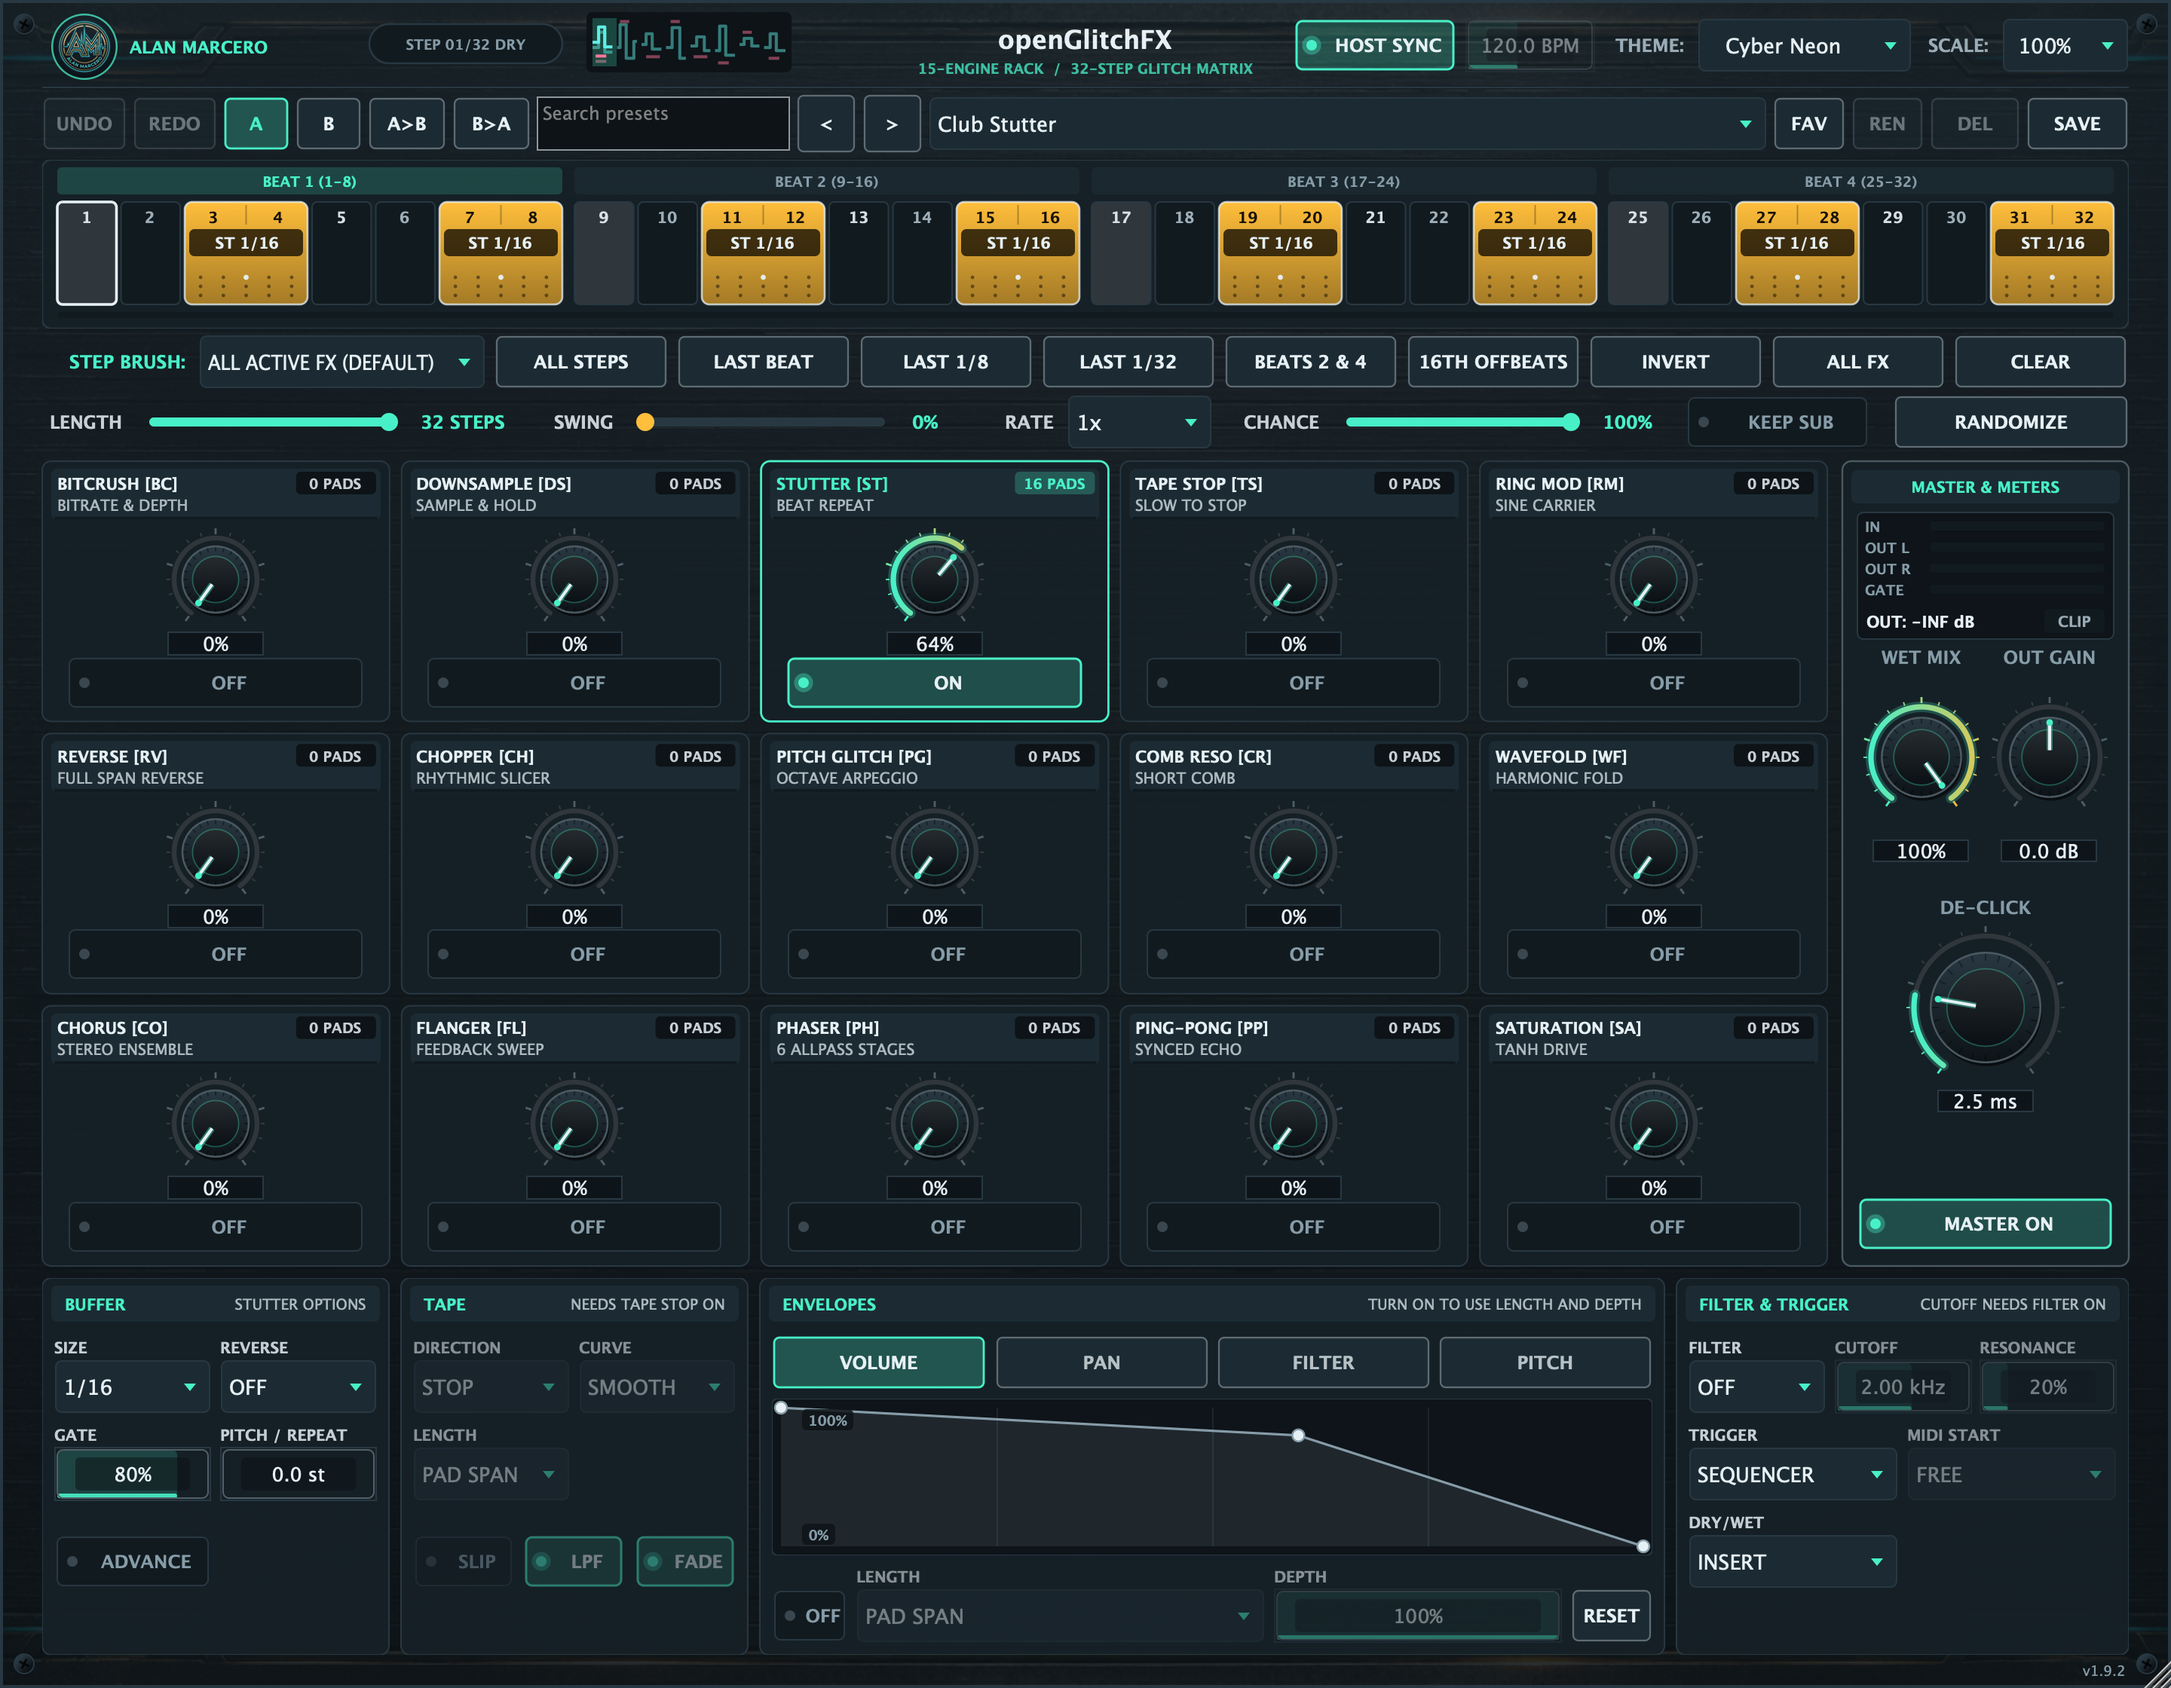
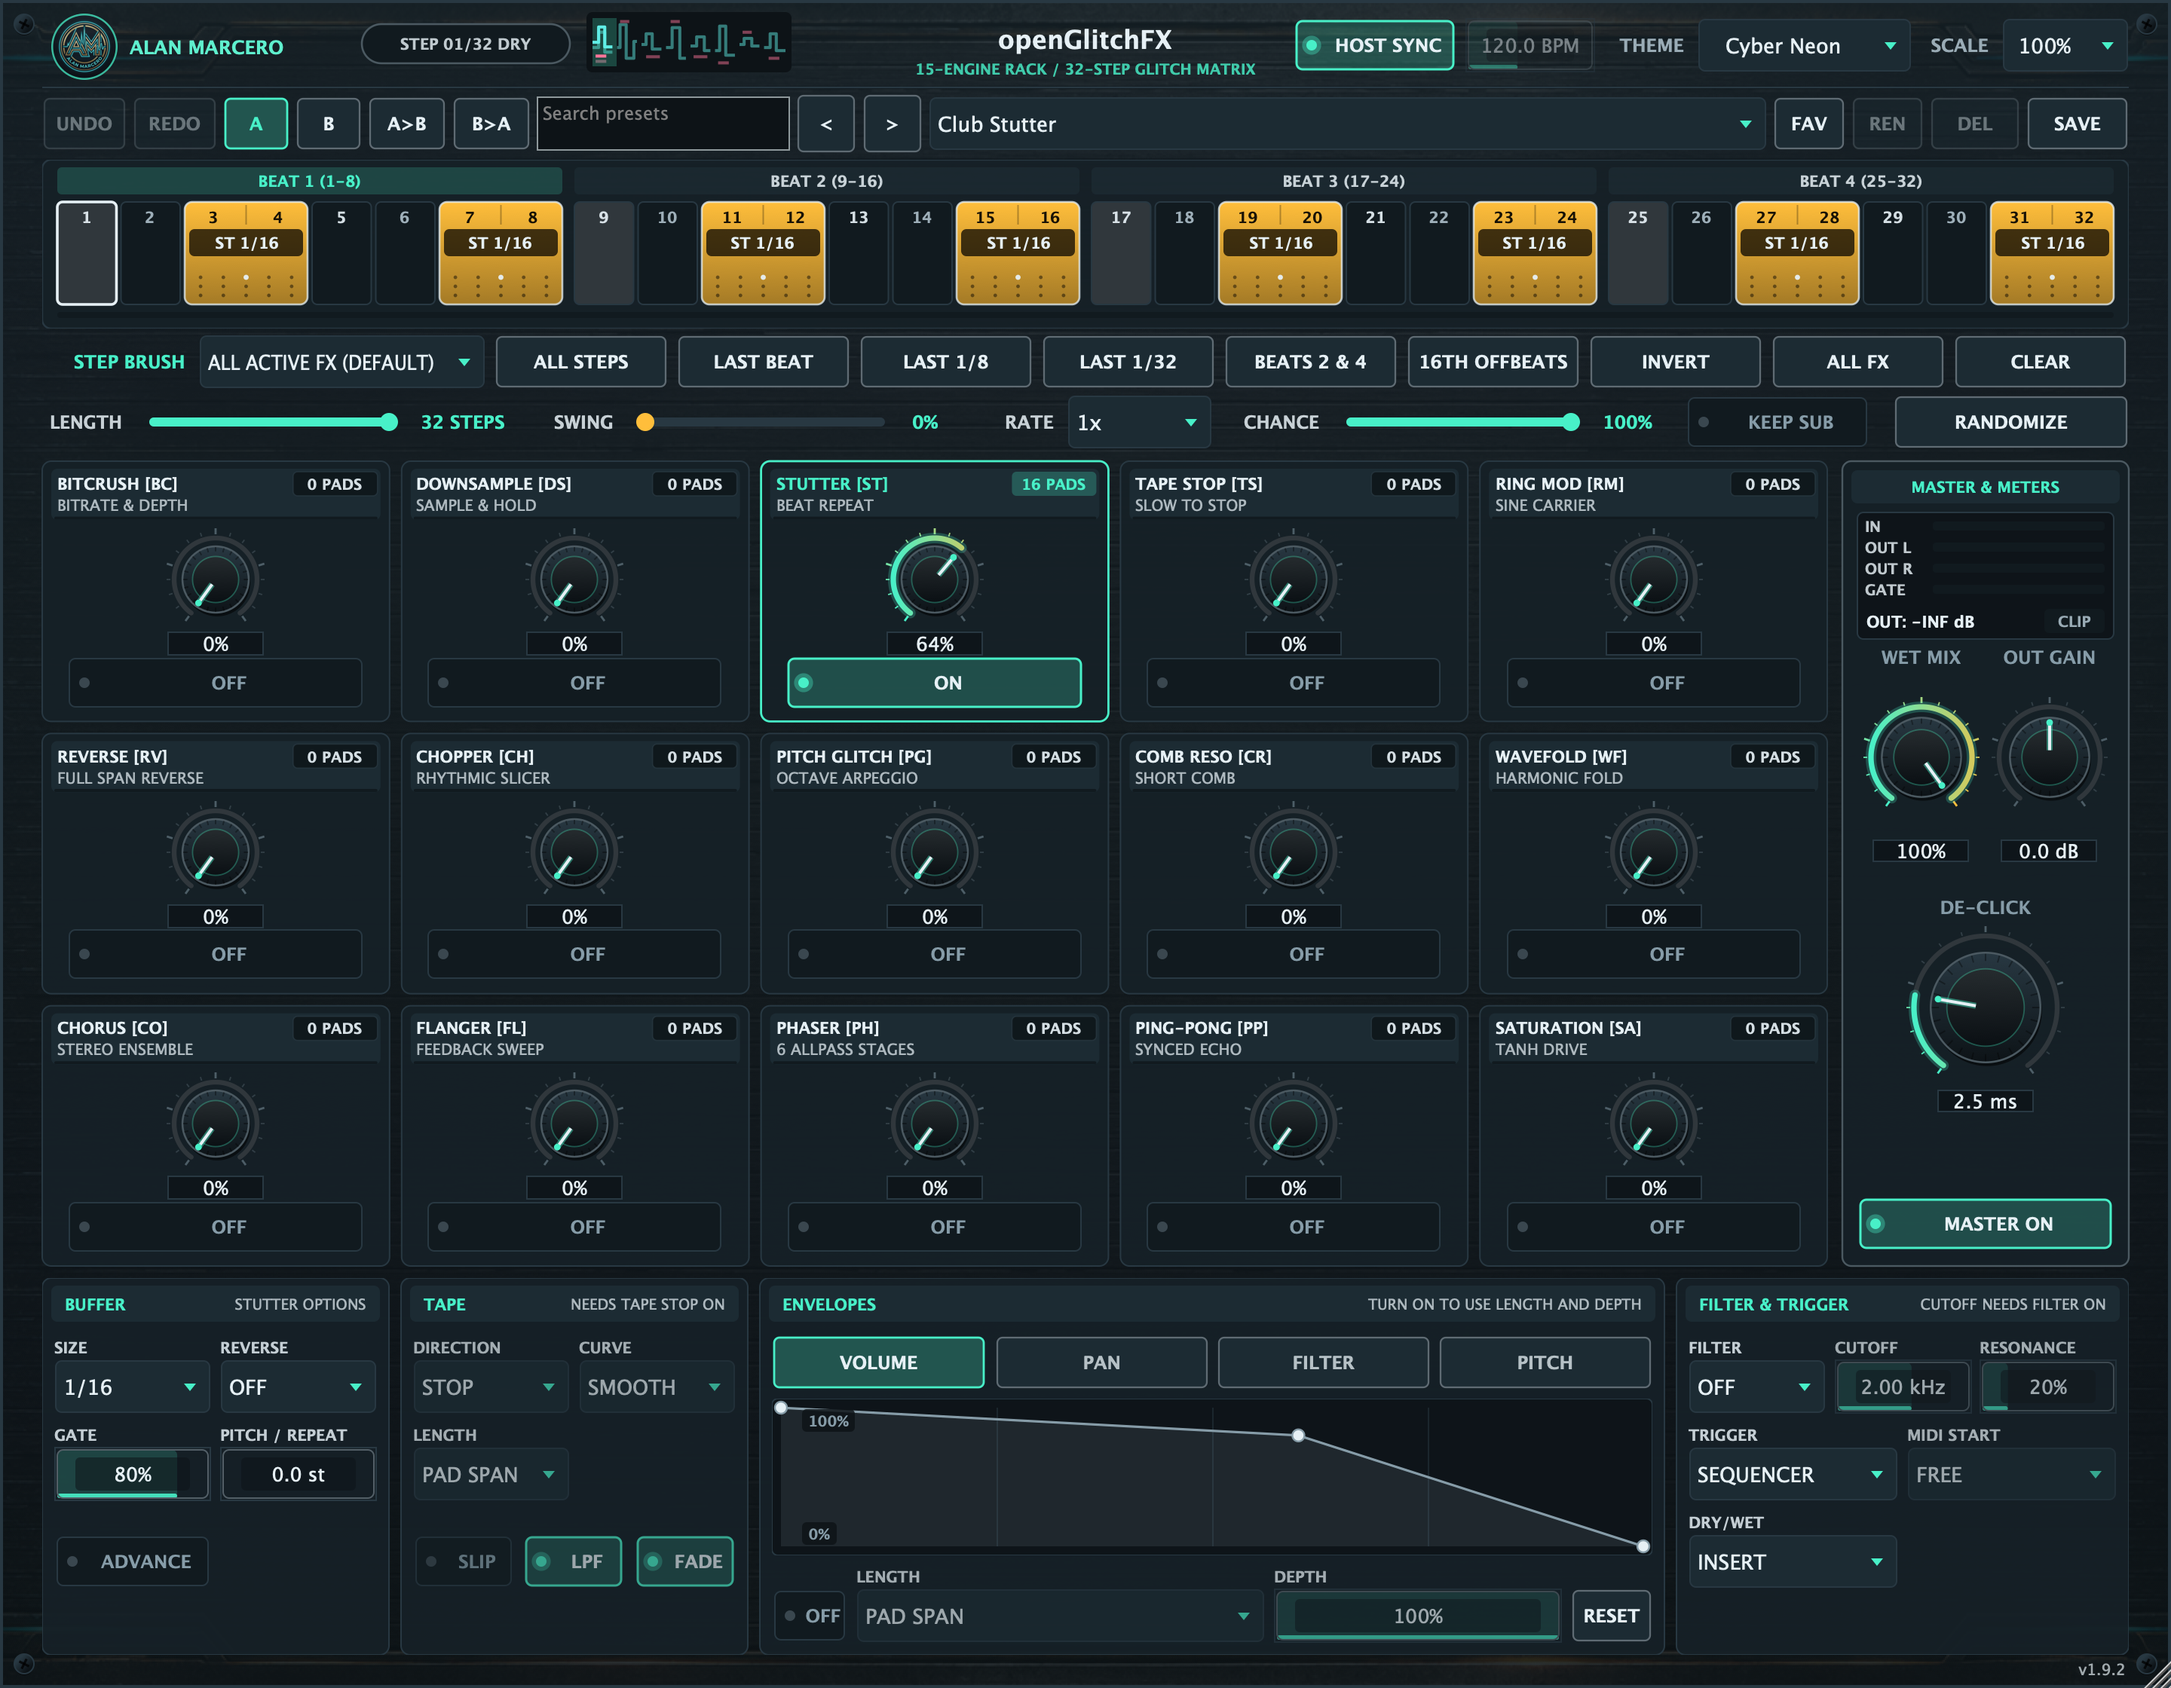
Polish openGlitchFX UI (Pass 4 audit)

diff --git a/Source/Plugin/PluginEditor.cpp b/Source/Plugin/PluginEditor.cpp
@@ -562,9 +562,9 @@ void EditorContent::paint(juce::Graphics& g) {
         g.drawEllipse(logoRect.reduced(0.5f), 1.5f);
     }
 
-    g.setColour(pal.accentPrimary);
-    g.setFont(juce::FontOptions(13.0f, juce::Font::bold));
-    g.drawText("ALAN MARCERO", 86, 22, 160, 18, juce::Justification::centredLeft);
+    g.setColour(pal.accentPrimary.interpolatedWith(pal.textBright, 0.15f));
+    g.setFont(juce::FontOptions(14.5f, juce::Font::bold));
+    g.drawText("ALAN MARCERO", 86, 21, 148, 20, juce::Justification::centredLeft);
 
     if (sliceRegister_ != nullptr) {
         const juce::Rectangle<float> trace(393.0f, 12.0f, 128.0f, 32.0f);
@@ -586,21 +586,21 @@ void EditorContent::paint(juce::Graphics& g) {
     g.setColour(pal.textBright);
     g.setFont(juce::FontOptions(20.0f, juce::Font::bold));
     g.drawText("openGlitchFX", static_cast<int>(w * 0.5f - 160.0f), 15, 320, 22, juce::Justification::centred);
-    g.setFont(juce::FontOptions(11.0f, juce::Font::bold));
-    g.setColour(pal.accentPrimary.withAlpha(0.75f));
-    g.drawText("15-ENGINE RACK  /  32-STEP GLITCH MATRIX", static_cast<int>(w * 0.5f - 160.0f), 38, 320, 14, juce::Justification::centred);
+    g.setFont(juce::FontOptions(11.5f, juce::Font::bold));
+    g.setColour(pal.accentPrimary.withAlpha(0.82f));
+    g.drawText("15-ENGINE RACK / 32-STEP GLITCH MATRIX", static_cast<int>(w * 0.5f - 160.0f), 38, 320, 15, juce::Justification::centred);
 
     // Live Gate Status Pill Indicator in Header
     const auto tel = processor_.getTelemetry();
     const bool gateOpen = tel.activeGate > 0.25f;
     const bool midiMode = sequencerGrid_.isMidiTriggerMode();
-    juce::Rectangle<float> statusPill(245.0f, 16.0f, 128.0f, 26.0f);
+    juce::Rectangle<float> statusPill(240.0f, 16.0f, 138.0f, 26.0f);
     g.setColour(gateOpen ? pal.accentPrimary.withAlpha(0.25f) : pal.stepInactiveFill);
     g.fillRoundedRectangle(statusPill, 13.0f);
-    g.setColour(gateOpen ? pal.accentPrimary : pal.cardBorder);
+    g.setColour(gateOpen ? pal.accentPrimary : pal.cardBorder.brighter(0.2f));
     g.drawRoundedRectangle(statusPill, 13.0f, 1.3f);
-    g.setColour(gateOpen ? pal.textBright : pal.textMuted);
-    g.setFont(juce::FontOptions(11.0f, juce::Font::bold));
+    g.setColour(gateOpen ? pal.textBright : pal.textBright.withAlpha(0.82f));
+    g.setFont(juce::FontOptions(12.0f, juce::Font::bold));
     g.drawText(stepPillText(tel.currentStep, sequencerGrid_.loopLength(), gateOpen, midiMode), statusPill.toNearestInt(),
                juce::Justification::centred);
 
@@ -640,16 +640,20 @@ void EditorContent::paint(juce::Graphics& g) {
         g.fillRoundedRectangle(hdr, 4.0f);
 
         // Per-FX Pad Routing Count Badge in top-right corner of header
-        juce::Rectangle<float> padBadge(hdr.getRight() - 56.0f, hdr.getY() + 2.0f, 53.0f, 15.0f);
-        g.setColour(padCount > 0 ? pal.accentPrimary.withAlpha(0.24f) : juce::Colours::black.withAlpha(0.55f));
+        juce::Rectangle<float> padBadge(hdr.getRight() - 58.0f, hdr.getY() + 2.0f, 56.0f, 16.0f);
+        g.setColour(padCount > 0 ? pal.accentPrimary.withAlpha(0.24f) : juce::Colours::black.withAlpha(0.45f));
         g.fillRoundedRectangle(padBadge, 3.0f);
-        g.setColour(padCount > 0 ? pal.accentPrimary : pal.textBright.withAlpha(0.85f));
-        g.setFont(juce::FontOptions(11.0f, juce::Font::bold));
+        if (padCount == 0) {
+            g.setColour(pal.cardBorder.withAlpha(0.75f));
+            g.drawRoundedRectangle(padBadge, 3.0f, 0.8f);
+        }
+        g.setColour(padCount > 0 ? pal.accentPrimary : pal.textBright.withAlpha(0.92f));
+        g.setFont(juce::FontOptions(11.5f, juce::Font::bold));
         g.drawText(juce::String(padCount) + (padCount == 1 ? " PAD" : " PADS"), padBadge.toNearestInt(), juce::Justification::centred);
 
         g.setColour(firingNow ? pal.textBright : (moduleArmed ? pal.accentPrimary : pal.textBright));
         g.setFont(juce::FontOptions(12.5f, juce::Font::bold));
-        g.drawFittedText(slot.title, hdr.withTrimmedBottom(15.0f).withTrimmedRight(58.0f).withTrimmedLeft(4.0f).toNearestInt(),
+        g.drawFittedText(slot.title, hdr.withTrimmedBottom(15.0f).withTrimmedRight(60.0f).withTrimmedLeft(4.0f).toNearestInt(),
                          juce::Justification::centredLeft, 1);
 
         const bool silent = slot.look.silent;
@@ -693,11 +697,11 @@ void EditorContent::paint(juce::Graphics& g) {
             g.drawRoundedRectangle(mb, 4.0f, 1.0f);
 
             auto drawBar = [&](float y, const char* label, float val01, juce::Colour col, float peak01 = -1.0f) {
-                g.setColour(pal.textMuted);
-                g.setFont(juce::FontOptions(11.0f, juce::Font::bold));
-                g.drawText(label, static_cast<int>(mb.getX() + 5.0f), static_cast<int>(y - 3.0f), 42, 12, juce::Justification::centredLeft);
+                g.setColour(pal.textBright.withAlpha(0.82f));
+                g.setFont(juce::FontOptions(11.5f, juce::Font::bold));
+                g.drawText(label, static_cast<int>(mb.getX() + 5.0f), static_cast<int>(y - 4.0f), 44, 14, juce::Justification::centredLeft);
 
-                juce::Rectangle<float> track(mb.getX() + 48.0f, y, mb.getWidth() - 54.0f, 6.0f);
+                juce::Rectangle<float> track(mb.getX() + 50.0f, y, mb.getWidth() - 56.0f, 6.0f);
                 g.setColour(pal.stepInactiveFill);
                 g.fillRoundedRectangle(track, 2.0f);
 
@@ -742,9 +746,9 @@ void EditorContent::paint(juce::Graphics& g) {
         }
     }
 
-    g.setColour(pal.textMuted);
-    g.setFont(juce::FontOptions(11.0f, juce::Font::plain));
-    g.drawText("v" JucePlugin_VersionString, static_cast<int>(w - 180.0f), static_cast<int>(h - 20.0f), 150, 16, juce::Justification::centredRight);
+    g.setColour(pal.textBright.withAlpha(0.68f));
+    g.setFont(juce::FontOptions(12.0f, juce::Font::plain));
+    g.drawText("v" JucePlugin_VersionString, static_cast<int>(w - 180.0f), static_cast<int>(h - 21.0f), 150, 17, juce::Justification::centredRight);
 }
 
 juce::String EditorContent::stepPillText(int currentStep, int loopLength, bool gateOpen, bool midiMode) {

diff --git a/Source/Plugin/EnvelopeEditorComponent.cpp b/Source/Plugin/EnvelopeEditorComponent.cpp
@@ -238,7 +238,7 @@ void EnvelopeEditorComponent::paint(juce::Graphics& g) {
         }
     }
 
-    const juce::Font labelFont(juce::FontOptions(11.0f, juce::Font::bold));
+    const juce::Font labelFont(juce::FontOptions(11.5f, juce::Font::bold));
     g.setFont(labelFont);
     auto drawAxisLabel = [&](const juce::String& text, bool isTop) {
         if (text.isEmpty()) {
@@ -246,8 +246,8 @@ void EnvelopeEditorComponent::paint(juce::Graphics& g) {
         }
         const float textW = std::ceil(juce::GlyphArrangement::getStringWidth(labelFont, text)) + 8.0f;
         const float x = area.getX() + kHitRadius + 6.0f;
-        const float y = isTop ? area.getY() + 1.0f : area.getBottom() - 15.0f;
-        const juce::Rectangle<float> pill(x, y, textW, 14.0f);
+        const float y = isTop ? area.getY() + 1.0f : area.getBottom() - 16.0f;
+        const juce::Rectangle<float> pill(x, y, textW, 15.0f);
         g.setColour(pal.bgBottom.withAlpha(0.84f));
         g.fillRoundedRectangle(pill, 3.0f);
         g.setColour(pal.textMuted);
@@ -272,7 +272,7 @@ void EnvelopeEditorComponent::paint(juce::Graphics& g) {
         g.setColour(pal.bgTop.withAlpha(0.92f));
         g.fillRoundedRectangle(box, 3.0f);
         g.setColour(pal.textBright);
-        g.setFont(juce::FontOptions(11.0f, juce::Font::bold));
+        g.setFont(juce::FontOptions(11.5f, juce::Font::bold));
         g.drawText(readout, box, juce::Justification::centred);
     }
 }

diff --git a/Source/Plugin/StepSequencerComponent.cpp b/Source/Plugin/StepSequencerComponent.cpp
@@ -730,7 +730,7 @@ void StepSequencerComponent::paint(juce::Graphics& g) {
         g.setColour(pal.accentSecondary.withAlpha(0.20f));
         g.fillRoundedRectangle(header, 3.0f);
         g.setColour(pal.textBright);
-        g.setFont(juce::FontOptions(11.0f, juce::Font::bold));
+        g.setFont(juce::FontOptions(11.5f, juce::Font::bold));
         g.drawText(readout, header.toNearestInt(), juce::Justification::centred);
     }
 
@@ -746,8 +746,8 @@ void StepSequencerComponent::paint(juce::Graphics& g) {
         g.setColour(playheadInBeat ? pal.accentPrimary.withAlpha(0.18f) : pal.headerPlate.withAlpha(0.7f));
         g.fillRoundedRectangle(beatHeader, 3.0f);
 
-        g.setColour(playheadInBeat ? pal.accentPrimary : pal.textMuted.withAlpha(firstStep < length ? 1.0f : 0.45f));
-        g.setFont(juce::FontOptions(11.0f, juce::Font::bold));
+        g.setColour(playheadInBeat ? pal.accentPrimary : pal.textBright.withAlpha(firstStep < length ? 0.85f : 0.50f));
+        g.setFont(juce::FontOptions(12.0f, juce::Font::bold));
         g.drawText(juce::String::formatted("BEAT %d (%d-%d)", b + 1, firstStep + 1, lastStep + 1),
                    beatHeader.toNearestInt(), juce::Justification::centred);
     }

diff --git a/Source/Plugin/DetailPanelComponent.cpp b/Source/Plugin/DetailPanelComponent.cpp
@@ -260,7 +260,7 @@ void DetailPanelComponent::refreshDependencies() {
     if (!dimmingChanged && !subtitlesChanged) {
         return;
     }
-    std::ranges::for_each(controls, [](const auto& control) { control.first->setAlpha(control.second ? 1.0f : 0.45f); });
+    std::ranges::for_each(controls, [](const auto& control) { control.first->setAlpha(control.second ? 1.0f : 0.65f); });
     std::ranges::for_each(std::views::iota(size_t{ 0 }, cards_.size()), [&](size_t i) { cards_[i].subtitle = subtitles[i]; });
     repaint();
 }
@@ -376,7 +376,7 @@ void DetailPanelComponent::paint(juce::Graphics& g) {
     g.setFont(juce::FontOptions(12.0f, juce::Font::bold));
     for (const auto& [component, caption] : captions_) {
         const bool active = component->getAlpha() > 0.9f;
-        g.setColour(pal.textBright.withAlpha(active ? 0.84f : 0.54f));
+        g.setColour(pal.textBright.withAlpha(active ? 0.84f : 0.68f));
         const auto b = component->getBounds();
         g.drawText(caption, b.getX(), b.getY() - static_cast<int>(kCaptionH), b.getWidth(), static_cast<int>(kCaptionH),
                    juce::Justification::centredLeft);

diff --git a/Source/Plugin/PluginEditor.h b/Source/Plugin/PluginEditor.h
@@ -88,8 +88,8 @@ private:
 
     // Header Controls
     juce::ComboBox themeBox_;
-    juce::Label themeLabel_{ {}, "THEME:" };
-    juce::Label scaleLabel_{ {}, "SCALE:" };
+    juce::Label themeLabel_{ {}, "THEME" };
+    juce::Label scaleLabel_{ {}, "SCALE" };
     juce::ComboBox scaleBox_;
     juce::ToggleButton hostSyncButton_{ "HOST SYNC" };
     juce::Slider internalBpmSlider_;
@@ -97,7 +97,7 @@ private:
 
     // 32-Step Beat Sequencer, Paint Brush Selector & Pattern Quick-Select Buttons
     openglitch::ui::StepSequencerComponent sequencerGrid_;
-    juce::Label paintBrushLabel_{ {}, "STEP BRUSH:" };
+    juce::Label paintBrushLabel_{ {}, "STEP BRUSH" };
     juce::ComboBox paintBrushBox_;
     juce::TextButton presetAllBtn_{ "ALL STEPS" };
     juce::TextButton presetLastBeatBtn_{ "LAST BEAT" };

diff --git a/Tests/PluginStateTests.cpp b/Tests/PluginStateTests.cpp
@@ -385,9 +385,9 @@ TEST_CASE("Detail controls with no effect dim and name what turns them on", "[pl
     REQUIRE(cutoff != nullptr);
     REQUIRE(midiStart != nullptr);
     panel.refreshDependencies();
-    REQUIRE(cutoff->getAlpha() < 0.5f);
+    REQUIRE(cutoff->getAlpha() < 0.7f);
     REQUIRE(cutoff->getTooltip().contains("Needs FILTER on"));
-    REQUIRE(midiStart->getAlpha() < 0.5f);
+    REQUIRE(midiStart->getAlpha() < 0.7f);
     REQUIRE(midiStart->getTooltip().contains("Needs TRIGGER set to MIDI"));
 
     processor.parameters.getParameter(openglitch::params::kFilterMode)->setValueNotifyingHost(0.5f);
